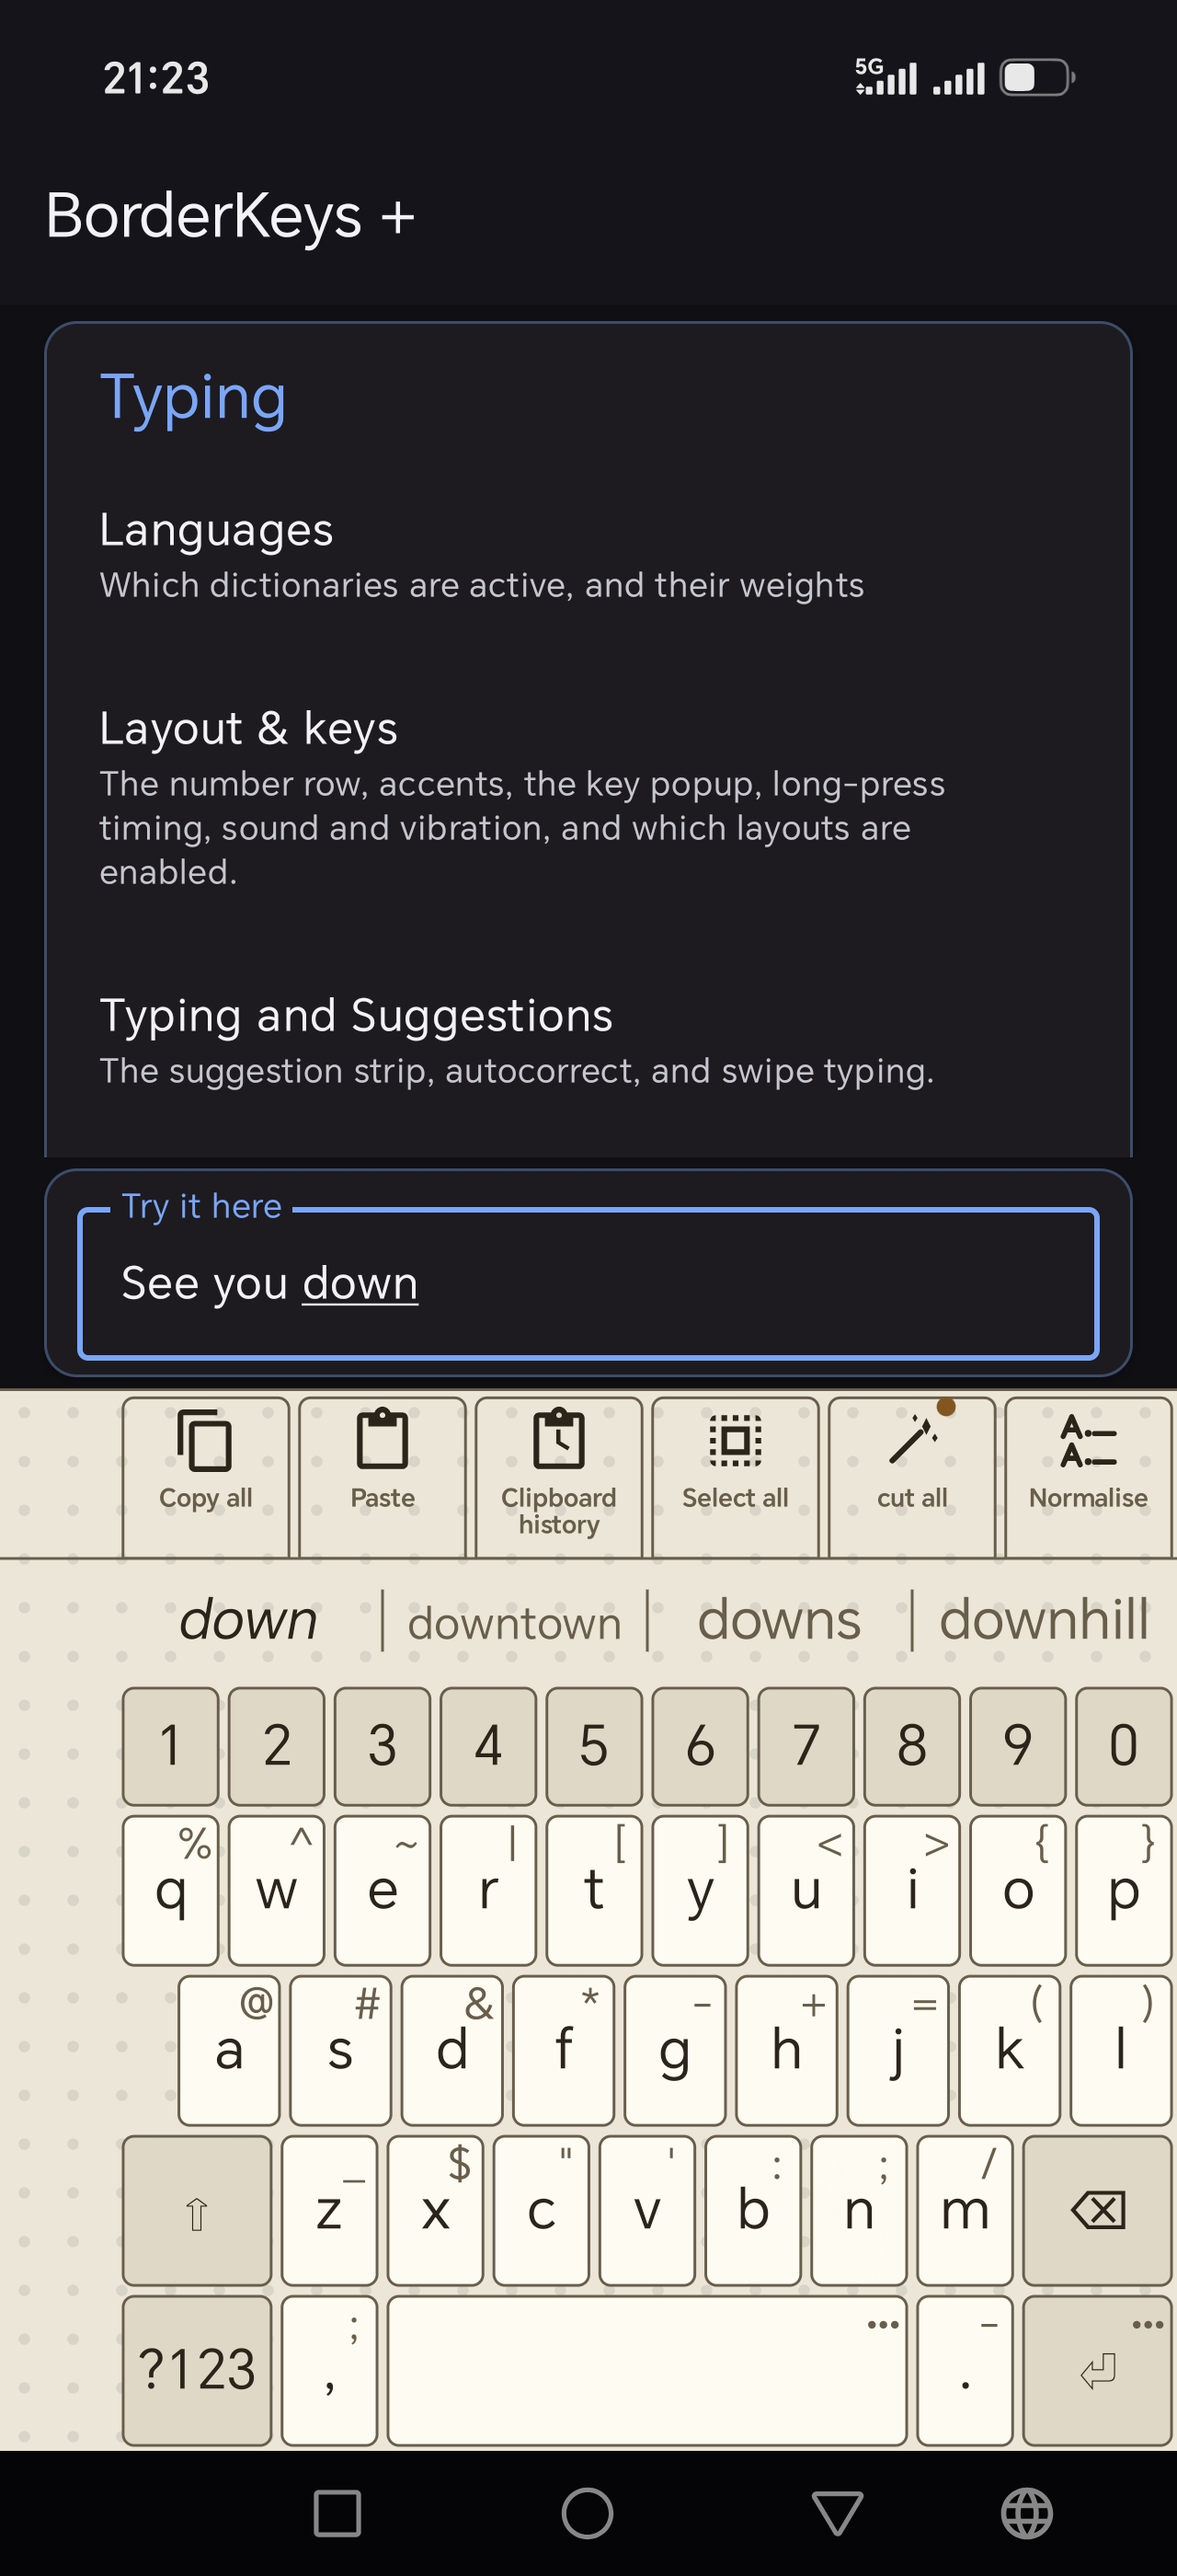
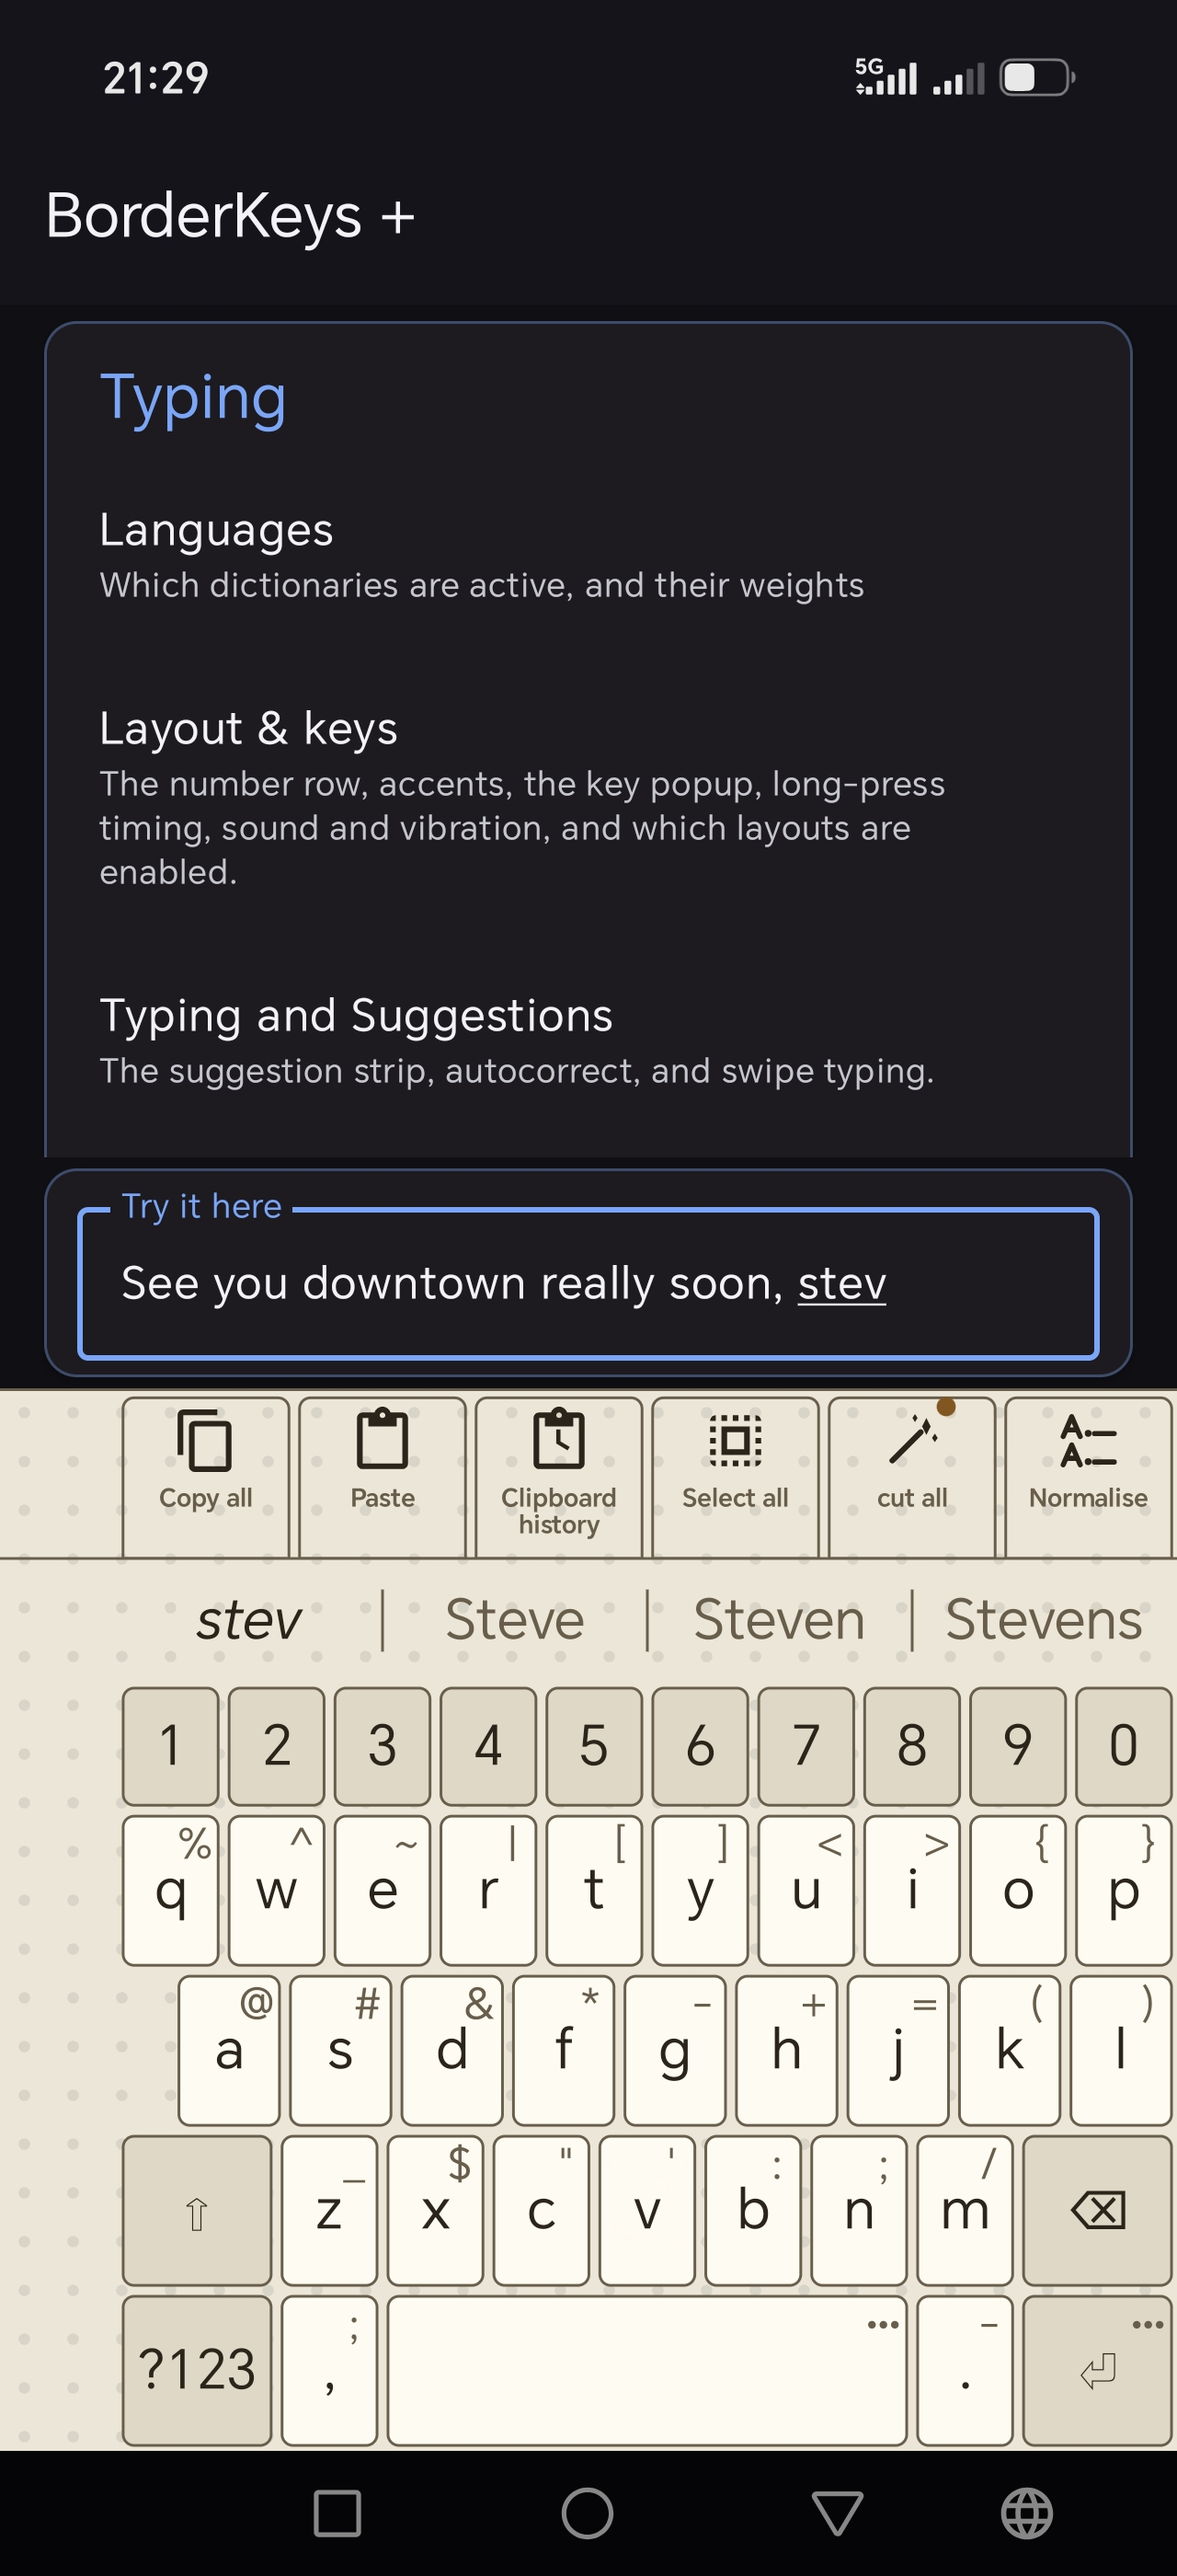
docs: the names bullet finally shows a name being capitalised
1_typing.jpg is the first image of both store listings and the
illustration under the names paragraph, and it had never actually shown
a name. Its caption once promised "Laurențiu and Maria capitalised on
their own in the strip"; the image under it showed a Romanian sentence
and an unrelated strip, and the English replacement before this showed
word completion. The paragraph has been making a claim its picture did
not support for a while.

It does now: "stev" typed in lower case, after a comma rather than at a
sentence start, offering Steve, Steven and Stevens. Three at once, with
the lower-case prefix still visible in the strip beside them, which is
the whole rule -- capitalised wherever the word falls, not only after a
full stop. Better than the single flagged word this was going to be.

The completions capture it replaces is kept rather than dropped, and
moves to where it illustrates something: the deterministic prediction
bullet, which had no image at all. New as 13_completions.jpg for core
and 17_completions.jpg for plus, one file shared by both.

All three captures are from the same phone, theme and field, so the set
reads as one session. Every README image reference resolves and no
caption describes a picture other than the one beneath it.

diff --git a/README.md b/README.md
@@ -38,6 +38,11 @@ directly from [GitHub Releases](https://github.com/razvan-eduard/borderkeys/rele
   n-grams have no evidence at all, a part-of-speech tag per word and a tag transition matrix
   break the tie; [`docs/pos-tagging.md`](docs/pos-tagging.md) records exactly how much that is
   worth, because the number is smaller than it looks.
+
+<p align="center">
+  <img src="fastlane/com.borderkeys/metadata/android/en-US/images/phoneScreenshots/13_completions.jpg" alt="The suggestion strip carrying a half-typed word on to down, downtown, downs and downhill" width="30%">
+</p>
+
 - **Several languages active at once.** Every dictionary you have switched on — up to four at a
   time — is consulted on every word; the one that actually recognises what you typed wins,
   without a manual switch. How quickly the
@@ -108,7 +113,7 @@ directly from [GitHub Releases](https://github.com/razvan-eduard/borderkeys/rele
   an ordinary word.
 
 <p align="center">
-  <img src="fastlane/com.borderkeys/metadata/android/en-US/images/phoneScreenshots/1_typing.jpg" alt="The suggestion strip completing a half-typed word, with the quick action bar above the keys" width="30%">
+  <img src="fastlane/com.borderkeys/metadata/android/en-US/images/phoneScreenshots/1_typing.jpg" alt="Steve, Steven and Stevens offered capitalised from a lower-case stev, in the middle of a sentence" width="30%">
 </p>
 
 - **Alternate physical layouts** — AZERTY, Dvorak, QWERTZ, ClearFlow, KasRoz and Toki Pona — for
